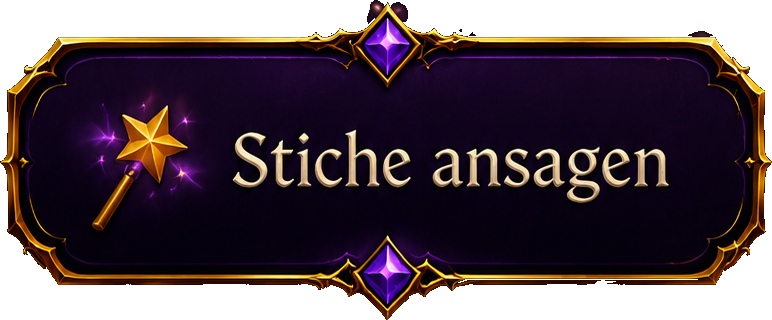
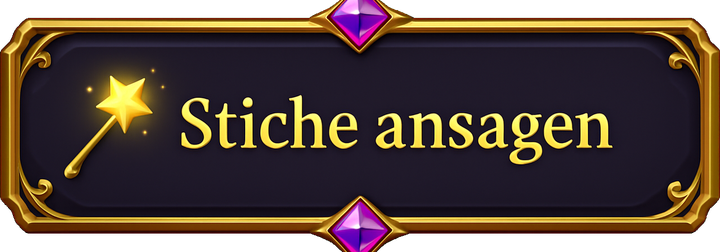
Spieltisch: „Stiche ansagen" + „Alle Karten" flacher & cleaner
Beide Button-Grafiken neu erzeugt (Wiz-Wiz Studio, Greenscreen -> sauber
freigestellt) im flacheren Format (~2,86:1 statt ~2,4-2,6:1). Gleicher Stil
(Goldrahmen, lila Edelsteine, Icon links, Goldschrift), Text gleich groß,
Button von oben nach unten niedriger -> passt zu den unteren Steuer-Buttons.
CSS-aspect-ratio angepasst, Bild-Version gebumpt. Im Spiel verifiziert.

diff --git a/index.html b/index.html
@@ -1042,9 +1042,9 @@
   .action-dock { display: flex; justify-content: center; margin-top: 6px; min-height: 104px; align-items: center; }
   /* "Stiche ansagen": fertige Grafik (Text ist Teil des Bildes). */
   .bid-open-btn {
-    background: url('lobby/ui-bid.png?v=1') center/100% 100% no-repeat;
+    background: url('lobby/ui-bid.png?v=2') center/100% 100% no-repeat;
     border: none; box-shadow: none; color: transparent; font-size: 0; padding: 0;
-    width: clamp(120px, 29vw, 224px); aspect-ratio: 772 / 320;
+    width: clamp(120px, 29vw, 224px); aspect-ratio: 720 / 252;
     display: inline-block; cursor: pointer;
     animation: bidPulse 1.9s ease-in-out infinite;
   }
@@ -1266,9 +1266,9 @@
   /* "Alle Karten": gemalte Pille als Hintergrund */
   .hand-view-btn {
     position: static; z-index: 6;
-    border: none; box-shadow: none; background: url('lobby/ui-allcards.png?v=1') center/100% 100% no-repeat;
+    border: none; box-shadow: none; background: url('lobby/ui-allcards.png?v=2') center/100% 100% no-repeat;
     color: transparent; font-size: 0; padding: 0; cursor: pointer;
-    width: clamp(120px, 29vw, 224px); aspect-ratio: 773 / 296; display: inline-block;
+    width: clamp(120px, 29vw, 224px); aspect-ratio: 720 / 252; display: inline-block;
   }
   .hand-view-btn:hover { filter: brightness(1.1); }
   /* Steuer-Pillen mit gemalten Rahmen */
